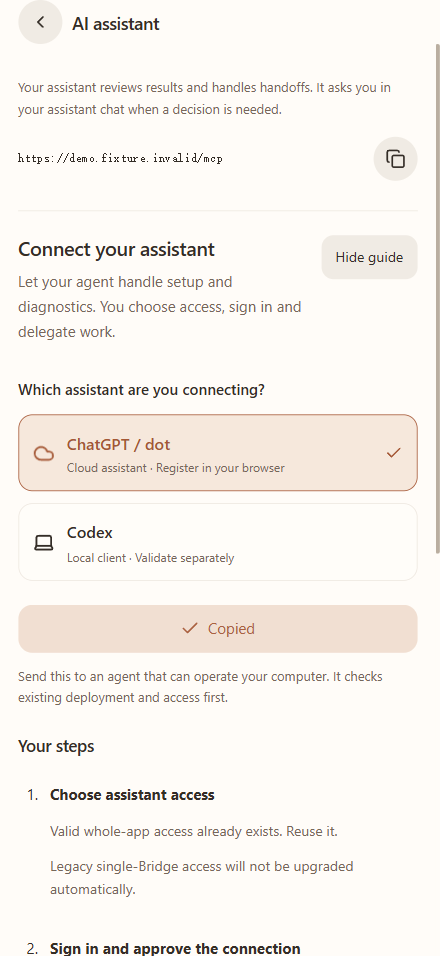
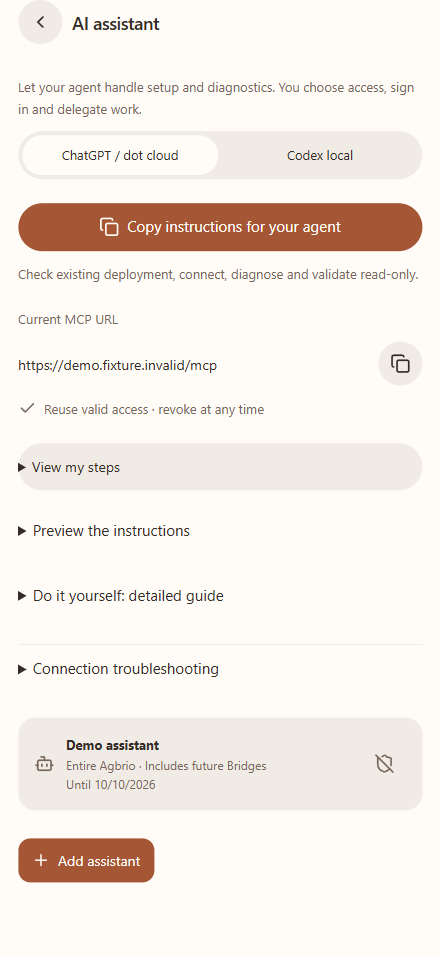
Match approved compact assistant guide and native quota sheet

diff --git a/src/features/workbench/AssistantConnectionGuide.tsx b/src/features/workbench/AssistantConnectionGuide.tsx
@@ -1,5 +1,5 @@
 import {useId,useRef,useState} from "react";
-import {ArrowLeft,ArrowRight,Check,Cloud,ExternalLink,Laptop,Link2,ShieldCheck} from "lucide-react";
+import {ArrowLeft,ArrowRight,Check,ExternalLink,Link2,ShieldCheck} from "lucide-react";
 import {t,getLanguage,useLanguage} from "../../i18n";
 import {CopyAction} from "./NativeReaderActions";
 import {assistantSetupInstructions,assistantReadOnlyInstructions,assistantTakeoverInstructions,type AssistantRoute} from "./assistantSetupInstructions";
@@ -9,7 +9,7 @@ type ExistingGrant={id:string;scope?:string;approvalMode?:string;label:string;ex
 export type AssistantHelpPage="CHATGPT_PLUGINS"|"AUTH_DOCUMENTATION";
 export function AssistantConnectionGuide({mcpUrl,grants,onAddGrant,onRouteChange,openHelp}:{mcpUrl:string|null;grants:ExistingGrant[];onAddGrant:()=>void;onRouteChange:(route:AssistantRoute)=>void;openHelp:(page:AssistantHelpPage)=>Promise<void>}){
  useLanguage();const id=useId(),heading=useRef<HTMLHeadingElement>(null);
- const[route,setRoute]=useState<AssistantRoute|null>(null),[step,setStep]=useState(0),[expanded,setExpanded]=useState(true),[openError,setOpenError]=useState("");
+ const[route,setRoute]=useState<AssistantRoute|null>(null),[step,setStep]=useState(0),[openError,setOpenError]=useState("");
  const active=grants.filter(g=>g.scope==="INSTANCE"&&g.approvalMode==="CONVERSATION_REVIEW"&&!g.revokedAt&&g.expiresAt>Date.now());
  let https=false;try{const u=new URL(mcpUrl??"");https=u.protocol==="https:"&&!u.username&&!u.password;}catch{/* Unconfigured address is not a connection. */}
  const labels=["检查入口","准备授权",route==="local"?"添加到 Codex":"注册云端插件","本人同意","只读验收","选择 Bridge"];
@@ -17,22 +17,22 @@ export function AssistantConnectionGuide({mcpUrl,grants,onAddGrant,onRouteChange
  function navigate(value:number){setStep(value);setOpenError("");requestAnimationFrame(()=>heading.current?.focus({preventScroll:true}));}
  async function external(page:AssistantHelpPage){setOpenError("");try{await openHelp(page);}catch{setOpenError(t("未能打开浏览器，请复制下方官方网址，在浏览器中打开。"));}}
  return <section className="r2-assistant-tutorial" aria-labelledby={`${id}-title`}>
-  <div className="assistant-guide-heading"><div><h2 id={`${id}-title`}>{t("连接你的助手")}</h2><p>{t("配置和诊断交给 agent；你只完成授权、登录和接管选择。")}</p></div><button type="button" aria-expanded={expanded} aria-controls={`${id}-body`} onClick={()=>setExpanded(!expanded)}>{t(expanded?"收起教程":"展开教程")}</button></div>
-  {expanded&&<div id={`${id}-body`}>
-   <p className="assistant-route-question">{t("你要连接哪类助手？")}</p>
+  <h2 id={`${id}-title`} className="r2-sr-only">{t("连接你的助手")}</h2>
+  <div id={`${id}-body`}>
+   <p className="r2-sr-only">{t("你要连接哪类助手？")}</p>
    <div className="assistant-route-options" role="group" aria-label={t("助手类型")}>
-    <button type="button" aria-pressed={route==="cloud"} onClick={()=>choose("cloud")}><Cloud size={22}/><span><strong>ChatGPT / dot</strong><small>{t("云端助手 · 在浏览器注册")}</small></span>{route==="cloud"&&<Check size={18}/>}</button>
-    <button type="button" aria-pressed={route==="local"} onClick={()=>choose("local")}><Laptop size={22}/><span><strong>Codex</strong><small>{t("本地客户端 · 单独验收")}</small></span>{route==="local"&&<Check size={18}/>}</button>
+    <button type="button" aria-pressed={route==="cloud"} onClick={()=>choose("cloud")}><span>ChatGPT / dot {t("云端")}</span></button>
+    <button type="button" aria-pressed={route==="local"} onClick={()=>choose("local")}><span>Codex {t("本地")}</span></button>
    </div>
    {!route?<p className="assistant-route-hint">{t("两条路线分别连接。桌面端认证成功，不代表 dot 云端已经可用。")}</p>:<>
-    <div className="assistant-agent-start"><CopyAction showLabel text={assistantSetupInstructions(mcpUrl,getLanguage(),route)} label={t("复制给 agent 的指令")}/><p>{t("发送给能操作你电脑的 agent，先复用现有部署和有效授权。")}</p></div>
-    <section className="assistant-human-steps" aria-label={t("只需要你完成")}><h3>{t("只需要你完成")}</h3>
+    <div className="assistant-agent-start"><CopyAction showLabel text={assistantSetupInstructions(mcpUrl,getLanguage(),route)} label={t("复制给 agent 的指令")}/><p>{t("检查现有部署、完成连接、排错和只读验收。")}</p></div>
+    <div className="assistant-current-connection"><p>{t("当前 MCP 地址")}</p>{mcpUrl?<div className="assistant-guide-value"><code>{mcpUrl}</code><CopyAction text={mcpUrl} label={t("复制 MCP 地址")}/></div>:<p>{t("尚未配置 MCP 入口。先到设备设置选择已有 HTTPS 服务或部署方式。")}</p>}{active.length>0&&<p className="assistant-grant-summary"><Check size={18}/>{t("有效授权将直接复用 · 可随时撤销")}</p>}</div>
+    <details className="assistant-human-details"><summary>{t("查看我需要做的步骤")}</summary><section className="assistant-human-steps" aria-label={t("只需要你完成")}><h3>{t("只需要你完成")}</h3>
      <ol><li><strong>{t("选择助手授权")}</strong>{active.length?<p>{t("已有有效的整个应用授权，可直接复用。")}</p>:<button type="button" onClick={onAddGrant}>{t("创建 30 天授权")}</button>}<p>{t("旧版单 Bridge 授权不会自动升级。")}</p></li>
      <li><strong>{t("本人登录并同意连接")}</strong>{route==="cloud"&&<button type="button" onClick={()=>void external("CHATGPT_PLUGINS")}>{t("在浏览器打开插件首页")}</button>}<p>{t(route==="cloud"?"按 agent 指引添加云端连接，核对范围并同意，再在目标 dot 中启用。":"按 agent 指引连接本地 Codex，核对范围并同意。")}</p></li>
      <li><strong>{t("告诉助手接管哪些 Bridge")}</strong><p>{t("说明任务、需要询问的情况和暂停条件；不需要另填 Brief。")}</p></li></ol>
-    </section>
+    </section></details>
     {openError&&<p role="alert">{openError}</p>}
-    {!mcpUrl&&<p>{t("尚未配置 MCP 入口。先到设备设置选择已有 HTTPS 服务或部署方式。")}</p>}
     <details className="assistant-prompt-preview"><summary>{t("预览要复制的指令")}</summary><pre>{assistantSetupInstructions(mcpUrl,getLanguage(),route)}</pre></details>
     <details className="assistant-manual"><summary>{t("自己操作：查看详细教程")}</summary>
     <nav className="assistant-guide-steps" aria-label={t("连接教程步骤")}>{labels.map((label,index)=><button key={index} type="button" aria-current={index===step?"step":undefined} aria-controls={`${id}-step`} onClick={()=>navigate(index)}><span className="assistant-step-number">{index+1}</span><span>{t(label)}</span></button>)}</nav>
@@ -54,6 +54,6 @@ export function AssistantConnectionGuide({mcpUrl,grants,onAddGrant,onRouteChange
     <dt>{t("注册或授权跳转")}</dt><dd>{t("0.1.5 修复 SDK 注册 grant_types 兼容；0.1.6 修复多 scope 授权请求。请求多个 scope 不会扩大本人所选授权。")}</dd>
     <dt>{t("token、工具发现或实际调用")}</dt><dd>{t("核对实际失败阶段、状态码、有效期、撤销状态及精确资源地址。没有底层证据时标为未知，不只反复点验证。")}</dd>
    </dl><p>{t("诊断只分享版本、阶段、时间、固定路径和错误码，不分享 Cookie、token、密钥、授权码、PKCE verifier、完整 OAuth 查询网址或私人对话。")}</p><button type="button" onClick={()=>void external("AUTH_DOCUMENTATION")}><ExternalLink size={16}/>{t("查看官方认证说明")}</button><p className="assistant-guide-note">https://developers.openai.com/plugins/build/auth</p></details>
-  </div>}
+  </div>
  </section>;
 }

diff --git a/src/features/workbench/CodexQuota.tsx b/src/features/workbench/CodexQuota.tsx
@@ -41,14 +41,15 @@ export function CodexQuota({api}:{api:CodexQuotaApi}){
  const firstWindow=first?.windows[0];
  const label=firstWindow?t('{0}剩余 {1}%',quotaPeriod(firstWindow.windowDurationMins),percent(firstWindow.remainingPercent)):busy?t('读取中…'):t('暂不可读取');
  return <Dialog.Root open={open} onOpenChange={value=>{setOpen(value);if(value)void refresh();}}>
-  <Dialog.Trigger asChild><button type="button" className="r2-quota-row" aria-label={t('查看 Codex 额度')}><span>{t('Codex 额度')}</span><span>{stale&&firstWindow?t('上次读取 · {0}',label):label}</span><ChevronRight size={16}/></button></Dialog.Trigger>
+  <Dialog.Trigger asChild><button type="button" className="r2-quota-row" aria-label={t('查看 Codex 额度')}><span>{t('Codex 额度')}</span><span>{stale&&firstWindow?t('上次读取 · {0}',label):label}</span><ChevronRight size={18}/></button></Dialog.Trigger>
   <Dialog.Portal><Dialog.Overlay className="r2-quota-overlay"/><Dialog.Content className="r2-quota-sheet r2-sheet" aria-describedby="quota-description">
-   <header><Dialog.Title>{t('Codex 额度')}</Dialog.Title><Dialog.Close asChild><button type="button" className="r2-icon" aria-label={t('关闭')}><X size={20}/></button></Dialog.Close></header>
+   <div className="r2-quota-handle" aria-hidden="true"/><header><Dialog.Title>{t('Codex 额度')}</Dialog.Title><Dialog.Close asChild><button type="button" className="r2-icon" aria-label={t('关闭')}><X size={20}/></button></Dialog.Close></header>
    <Dialog.Description id="quota-description">{t('当前电脑连接的 Codex 账户额度。')}</Dialog.Description>
    {stale&&<p role="status">{t(firstWindow?'连接暂不可用，以下为上次读取结果。':'暂时无法读取，请检查电脑连接后重试。')}</p>}
    {data?.status==='AVAILABLE'?data.buckets.map(bucket=><section key={bucket.id} aria-label={bucket.id}>{data.buckets.length>1&&<h3>{bucket.id}</h3>}{bucket.windows.map(w=><div className="r2-quota-window" key={w.slot}><div><strong>{quotaPeriod(w.windowDurationMins)}</strong><span>{t('剩余 {0}%',percent(w.remainingPercent))}</span></div><div className="r2-quota-track" role="meter" aria-label={quotaPeriod(w.windowDurationMins)} aria-valuemin={0} aria-valuemax={100} aria-valuenow={w.remainingPercent}><i style={{width:`${w.remainingPercent}%`}}/></div><p>{w.resetsAt?t('重置于 {0}',timestamp(w.resetsAt*1000)):t('重置时间暂不可用')}</p></div>)}</section>):!busy&&<p role="status">{t('暂不可读取。部分登录方式不提供 Codex 额度。')}</p>}
-   {data?.status==='AVAILABLE'&&<p className="r2-quota-read-at">{t('上次读取 {0}',timestamp(data.observedAt))}</p>}
-   <button type="button" className="r2-quota-refresh" disabled={busy} onClick={()=>void refresh(true)}><RefreshCw size={17} className={busy?'r2-quota-spinning':''}/>{t(busy?'读取中…':'刷新额度')}</button>
+   <div className="r2-quota-freshness">{data?.status==='AVAILABLE'&&<p className="r2-quota-read-at">{t('上次读取 {0}',timestamp(data.observedAt))}</p>}
+   <button type="button" className="r2-quota-refresh" aria-label={t(busy?'读取中…':'刷新额度')} title={t(busy?'读取中…':'刷新额度')} disabled={busy} onClick={()=>void refresh(true)}><RefreshCw size={20} className={busy?'r2-quota-spinning':''}/></button></div>
+   <p>{t('查看和刷新额度，不会打断正在执行的任务。')}</p>
   </Dialog.Content></Dialog.Portal>
  </Dialog.Root>;
 }

diff --git a/src/styles/codex-quota.css b/src/styles/codex-quota.css
@@ -1,4 +1,4 @@
-.r2-quota-overlay{position:fixed;inset:0;z-index:159;background:#342d2740}
+.r2-quota-overlay{position:fixed;inset:0;z-index:159;background:#342d2733}
 .r2-quota-row{display:flex;align-items:center;gap:12px;width:100%;min-height:44px;margin:0 0 24px;padding:0;background:none;color:var(--r2-muted);border:0;font:14px var(--r2-font);text-align:left;touch-action:manipulation}
 .r2-router button.r2-quota-row{background:none;border-radius:0;padding:0;font-size:14px}
 .r2-quota-row>span:first-child{color:var(--r2-ink)}.r2-quota-row>span:nth-child(2){margin-left:auto;min-width:0;overflow-wrap:anywhere}.r2-quota-row svg{flex:none}
@@ -7,3 +7,7 @@
 .r2-quota-sheet>p,.r2-quota-window>p{color:var(--r2-muted,#76675a);font-size:13px}.r2-quota-window{margin:24px 0}.r2-quota-window>div:first-child{display:flex;align-items:center;justify-content:space-between;gap:16px}.r2-quota-window strong{font-weight:500}.r2-quota-track{height:6px;margin:12px 0;background:var(--r2-soft,#f0ebe4);border-radius:6px;overflow:hidden}.r2-quota-track i{display:block;height:100%;background:var(--r2-accent,#a55735);border-radius:6px}.r2-quota-window p{margin:8px 0}.r2-quota-refresh{display:flex;align-items:center;gap:8px;justify-content:center;min-height:44px;width:100%;background:var(--r2-soft,#f0ebe4);border:0;border-radius:12px;font:inherit;color:inherit}.r2-quota-refresh:disabled{opacity:.65}.r2-quota-spinning{animation:r2-quota-turn 1s linear infinite}@keyframes r2-quota-turn{to{transform:rotate(360deg)}}
 @media(max-width:720px){.r2-quota-sheet{top:auto;bottom:var(--aiwr-shell-bottom,0px);left:0;width:100%;transform:none;border-radius:24px 24px 0 0;padding:24px 20px calc(24px + var(--aiwr-safe-area-bottom,env(safe-area-inset-bottom,0px)));max-height:calc(var(--aiwr-shell-height,100dvh) - 24px);box-sizing:border-box}}
 @media(hover:hover) and (pointer:fine){.r2-quota-row:hover{color:var(--r2-accent)}}@media(prefers-reduced-motion:reduce){.r2-quota-spinning{animation:none}}
+
+/* Approved Figma327:233, using the same R2 tokens and Lucide instances. */
+.r2-quota-handle{width:36px;height:4px;border-radius:2px;background:var(--r2-divider);margin-bottom:20px}.r2-quota-sheet h2{font-size:23px}.r2-quota-track{height:8px}.r2-quota-track i{background:var(--r2-ink)}.r2-quota-freshness{display:flex;align-items:center;justify-content:space-between;gap:12px;margin:20px 0}.r2-quota-freshness p{font-size:13px;color:var(--r2-muted);margin:0}.r2-quota-refresh{width:44px;height:44px;flex:none;border-radius:50%;margin-left:auto}.r2-quota-window>div:first-child{font-size:16px}
+@media(max-width:720px){.r2-quota-sheet{min-height:472px;padding-inline:22px;padding-top:22px}}

diff --git a/src/styles/assistant-guide.css b/src/styles/assistant-guide.css
@@ -35,3 +35,9 @@
 @media(max-width:560px){.assistant-guide-steps{grid-template-columns:repeat(2,minmax(0,1fr))}}
 
 .assistant-agent-start{margin:24px 0}.r2-assistant-settings .r2-copy-label{display:flex;width:100%;align-items:center;justify-content:center;gap:10px;min-height:48px;background:var(--r2-accent);color:var(--r2-paper);border-radius:14px;font-size:15px;white-space:normal}.assistant-agent-start p{font-size:13px;color:var(--r2-muted)}.assistant-human-steps{margin:24px 0}.assistant-human-steps h3{font-size:17px}.assistant-human-steps ol{padding-left:24px}.assistant-human-steps li{padding:8px 0 16px 8px}.assistant-human-steps p{font-size:14px;color:var(--r2-muted);margin:6px 0}.assistant-human-steps button{min-height:44px;text-align:left;color:var(--r2-accent)}.assistant-manual,.assistant-prompt-preview{margin:16px 0}.assistant-manual summary,.assistant-prompt-preview summary{min-height:44px;padding:12px 0;cursor:pointer}.assistant-prompt-preview pre{max-height:300px;overflow:auto;white-space:pre-wrap;overflow-wrap:anywhere;font:14px/1.65 var(--r2-font);padding:16px;background:var(--r2-soft);border-radius:12px}
+
+/* Approved Figma326:17 compact composition; the existing manual guide is unchanged. */
+.r2-assistant-tutorial{margin:0 0 24px;padding:0;border:0}.assistant-route-options{display:grid;grid-template-columns:repeat(2,minmax(0,1fr));gap:4px;padding:4px;background:var(--r2-soft);border-radius:24px}.r2-assistant-settings .assistant-route-options button{min-height:40px;padding:8px 10px;background:transparent;border:0;border-radius:20px;text-align:center;justify-content:center;font-size:13px;line-height:1.5}.r2-assistant-settings .assistant-route-options button[aria-pressed=true]{background:var(--r2-paper);color:var(--r2-ink);border:0}.assistant-route-options button>span{flex:initial}.assistant-agent-start{margin:24px 0}.r2-assistant-settings .r2-copy-label{border-radius:24px}.assistant-current-connection{margin:24px 0}.assistant-current-connection>p{font-size:13px;color:var(--r2-muted);margin:6px 0}.r2-assistant-settings .assistant-current-connection .assistant-guide-value{margin:0;padding:0;border:0}.assistant-grant-summary{display:flex;align-items:center;gap:8px}.assistant-grant-summary svg{flex:none}.assistant-human-details>summary{min-height:48px;padding:12px 16px;background:var(--r2-soft);border-radius:24px;cursor:pointer;font-size:14px}.assistant-human-steps{margin:20px 0}
+
+.r2-router .r2-settings .r2-assistant-settings .assistant-route-options button[aria-pressed=true]{background:var(--r2-paper);color:var(--r2-ink)}
+.r2-assistant-settings .assistant-current-connection code{font:14px/1.6 var(--r2-font)}

diff --git a/src/features/workbench/AssistantSettings.tsx b/src/features/workbench/AssistantSettings.tsx
@@ -20,7 +20,7 @@ export function AssistantSettings({api=desktopApi}:{api?:AssistantSettingsApi}){
  
  async function create(){if(!label.trim())return;await act(async()=>{await api.create({label:label.trim(),expiresAt:Date.now()+30*86400000});if(mounted.current){setForm(false);setStatus(t("授权已添加"));}});}
  const current=view?.grants.filter(g=>!g.revokedAt&&g.expiresAt>Date.now())??[];
- return <div className="r2-assistant-settings"><p className="r2-assistant-description">{t("助手读取结果后处理交接；需要你决策时，在助手对话里问你。")}</p>{view?.mcpUrl?<div className="r2-device-url"><code>{view.mcpUrl}</code><CopyAction text={view.mcpUrl} label={t("复制 MCP 地址")} onError={()=>setError(t("网址未复制，请选择链接复制。"))}/></div>:view&&<p className="v4-meta">{t("先在设备设置中配置 HTTPS 入口。")}</p>}
+ return <div className="r2-assistant-settings"><p className="r2-assistant-description">{t("配置和诊断交给 agent；你只完成授权、登录和接管选择。")}</p>
  {!view&&!error&&<p role="status">{t("加载中…")}</p>}
  {view&&<AssistantConnectionGuide mcpUrl={view.mcpUrl} grants={view.grants} onAddGrant={()=>setForm(true)} onRouteChange={()=>{}} openHelp={api.openHelp??(async page=>{window.open(page==="CHATGPT_PLUGINS"?"https://chatgpt.com/plugins":"https://developers.openai.com/plugins/build/auth","_blank","noopener,noreferrer");})}/>}
 

diff --git a/src/features/workbench/interfaceRevision.ts b/src/features/workbench/interfaceRevision.ts
@@ -1,1 +1,1 @@
-export const PHONE_LAYOUT_REVISION="2026.10.09-32";
+export const PHONE_LAYOUT_REVISION="2026.10.09-33";

diff --git a/README.md b/README.md
@@ -10,7 +10,7 @@ Do you already keep one agent conversation for decisions and another for impleme
 
 **Keep the reasoning in one conversation. Keep the execution in another. Carry the right work between them.**
 
-[Download Windows v0.1.14](https://github.com/geoffrey1111/agbrio/releases/tag/v0.1.14) · [Install and pair](docs/SETUP.md) · [Connect an assistant](docs/ASSISTANT_CONNECTION_GUIDE.en.md) · [MIT license](LICENSE)
+[Download Windows v0.1.15](https://github.com/geoffrey1111/agbrio/releases/tag/v0.1.15) · [Install and pair](docs/SETUP.md) · [Connect an assistant](docs/ASSISTANT_CONNECTION_GUIDE.en.md) · [MIT license](LICENSE)
 
 ## From review to the next task
 
@@ -61,7 +61,7 @@ The computer must stay powered on, awake and connected for live work. A new brow
 
 Windows x64 + Codex + paired PWA is the alpha scope. App languages: **English, Simplified Chinese, Traditional Chinese** (Settings → Language). Japanese and Korean are introduction translations; macOS and other execution agents are not verified release targets. Source data is review material, never a way to enlarge authorization. An accepted handoff does not prove its downstream task completed.
 
-[Build from source](docs/BUILD.md) · [Assistant protocol](docs/ASSISTANT_MCP.md) · [v0.1.14 changes](docs/RELEASE_0.1.11.md) · [Third-party notices](THIRD_PARTY_NOTICES.md)
+[Build from source](docs/BUILD.md) · [Assistant protocol](docs/ASSISTANT_MCP.md) · [v0.1.15 changes](docs/RELEASE_0.1.11.md) · [Third-party notices](THIRD_PARTY_NOTICES.md)
 
 [Contact the author](mailto:geoffreyzjx@qq.com) · [Report a problem](https://github.com/geoffrey1111/agbrio/issues/new?template=bug_report.yml) · [Suggest an improvement](https://github.com/geoffrey1111/agbrio/issues/new?template=feature_request.yml)
 

diff --git a/README.zh-CN.md b/README.zh-CN.md
@@ -10,7 +10,7 @@
 
 **思考留在思考端，执行留在执行端，Bridge 负责准确交接。**
 
-[下载 Windows v0.1.14](https://github.com/geoffrey1111/agbrio/releases/tag/v0.1.14) · [安装与配对](docs/SETUP.md) · [连接 AI 助手](docs/ASSISTANT_CONNECTION_GUIDE.zh-CN.md) · [MIT 许可证](LICENSE)
+[下载 Windows v0.1.15](https://github.com/geoffrey1111/agbrio/releases/tag/v0.1.15) · [安装与配对](docs/SETUP.md) · [连接 AI 助手](docs/ASSISTANT_CONNECTION_GUIDE.zh-CN.md) · [MIT 许可证](LICENSE)
 
 ## 从审阅到下一项任务
 
@@ -61,7 +61,7 @@
 
 当前为 Windows x64 + Codex + 配对 PWA 的 Alpha。应用支持**简体中文、繁体中文、英语**，在设置 → 语言切换。日语和韩语目前仅翻译产品介绍；macOS 和其他执行 Agent 尚未列入已验证发行范围。来源正文不能扩大授权，收到交接回执不等于下游任务已经完成。
 
-[从源码构建](docs/BUILD.md) · [助手协议](docs/ASSISTANT_MCP.md) · [v0.1.14 更新](docs/RELEASE_0.1.11.md) · [第三方声明](THIRD_PARTY_NOTICES.md)
+[从源码构建](docs/BUILD.md) · [助手协议](docs/ASSISTANT_MCP.md) · [v0.1.15 更新](docs/RELEASE_0.1.11.md) · [第三方声明](THIRD_PARTY_NOTICES.md)
 
 [联系作者](mailto:geoffreyzjx@qq.com) · [反馈问题](https://github.com/geoffrey1111/agbrio/issues/new?template=bug_report.yml) · [提出建议](https://github.com/geoffrey1111/agbrio/issues/new?template=feature_request.yml)
 

diff --git a/README.zh-TW.md b/README.zh-TW.md
@@ -10,7 +10,7 @@
 
 **思考留在思考端，執行留在執行端，Bridge 負責準確交接。**
 
-[下載 Windows v0.1.14](https://github.com/geoffrey1111/agbrio/releases/tag/v0.1.14) · [安裝與配對](docs/SETUP.md) · [連接 AI 助手](docs/ASSISTANT_CONNECTION_GUIDE.zh-TW.md) · [MIT 授權](LICENSE)
+[下載 Windows v0.1.15](https://github.com/geoffrey1111/agbrio/releases/tag/v0.1.15) · [安裝與配對](docs/SETUP.md) · [連接 AI 助手](docs/ASSISTANT_CONNECTION_GUIDE.zh-TW.md) · [MIT 授權](LICENSE)
 
 ## 從審閱到下一項任務
 
@@ -61,7 +61,7 @@
 
 目前為 Windows x64 + Codex + 配對 PWA 的 Alpha。應用支援**繁體中文、簡體中文、英語**，在設定 → 語言切換。日語與韓語目前僅翻譯產品介紹；macOS 和其他執行 Agent 尚未列入已驗證發行範圍。來源正文不能擴大授權，交接回執不等於下游任務已完成。
 
-[從原始碼建置](docs/BUILD.md) · [助手協定](docs/ASSISTANT_MCP.md) · [v0.1.14 更新](docs/RELEASE_0.1.11.md) · [第三方聲明](THIRD_PARTY_NOTICES.md)
+[從原始碼建置](docs/BUILD.md) · [助手協定](docs/ASSISTANT_MCP.md) · [v0.1.15 更新](docs/RELEASE_0.1.11.md) · [第三方聲明](THIRD_PARTY_NOTICES.md)
 
 [聯絡作者](mailto:geoffreyzjx@qq.com) · [回報問題](https://github.com/geoffrey1111/agbrio/issues/new?template=bug_report.yml) · [提出建議](https://github.com/geoffrey1111/agbrio/issues/new?template=feature_request.yml)
 

diff --git a/docs/ASSISTANT_CONNECTION_GUIDE.en.md b/docs/ASSISTANT_CONNECTION_GUIDE.en.md
@@ -62,3 +62,5 @@ Owner-reported cloud dot acceptance: **16 tools, INSTANCE + CONVERSATION_REVIEW,
 MCP Events can support dots, but Agbrio has not implemented event discovery, subscriptions, signed callbacks, deduplication, revocation stop or missed-event recovery. A connection is not automatic wakeup or an unattended loop. These require separate implementation and acceptance after explicit Bridge delegation.
 
 [Copy full instructions to an assistant](ASSISTANT_COPY_PROMPT.en.md) · [Protocol and tools](ASSISTANT_MCP.md) · [Official plugin authentication](https://developers.openai.com/plugins/build/auth) · [Official dot apps guide](https://learn.chatgpt.com/docs/dots/computers-and-apps)
+
+The compact route tabs and copy control are shown first. Open **View my steps** for your authorization, sign-in and delegation actions; technical details remain optional.

diff --git a/docs/RELEASE_NOTES_0.1.15.md b/docs/RELEASE_NOTES_0.1.15.md
@@ -1,0 +1,7 @@
+Agbrio 0.1.15
+
+- Match the approved compact assistant connection design: route tabs, primary copy action, connection summary and optional human steps. Keep detailed manual setup and all authorization safeguards.
+- Match the approved solid Codex usage sheet: native-window remaining bar, read-only refresh, reset/last-read and task-continuity copy.
+- Includes 0.1.14 quota service, manual PWA updates and all UI29-32 recovery/history fixes. No automatic message replay or false delivery acknowledgement.
+
+Approved Figma geometry verified with actual browser interactions at360/440/1440 in three languages. Existing immutable0.1.14 remains available. Original R2 navigation and provider lifecycle are preserved. Physical iPhone UAT and live Dot send acceptance remain separate.
